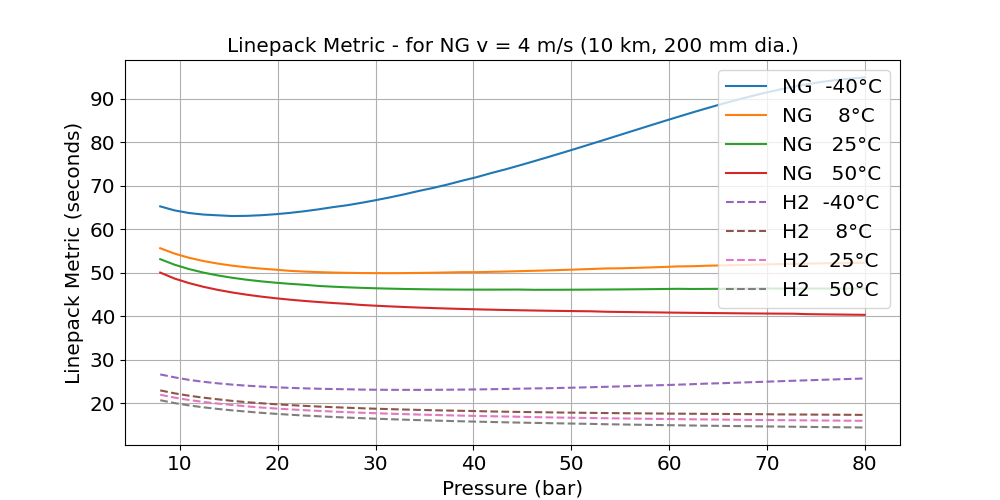
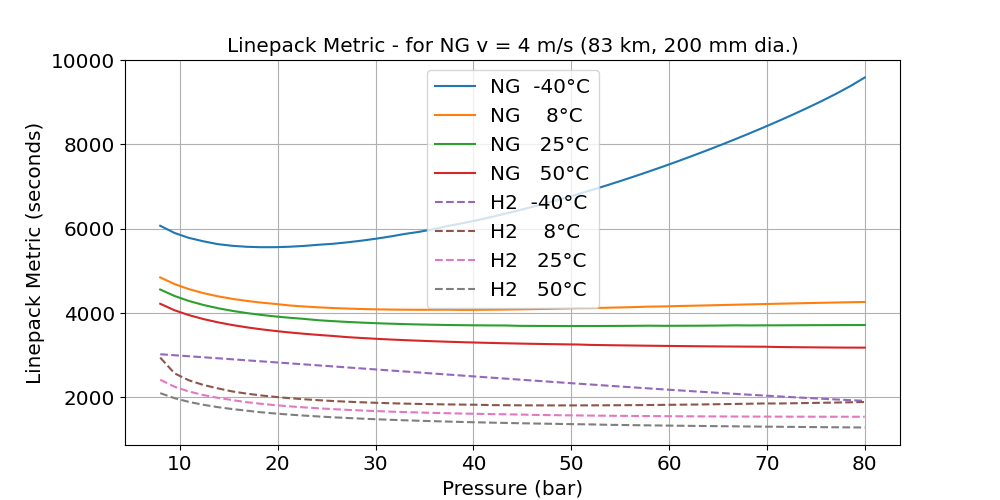
Need Mach number cuttoff for some pipes

diff --git a/moody.py b/moody.py
@@ -738,7 +738,10 @@ def LPM(g, T, P_ent, L_seg, D, Qh, rr=1e-5, f_function=afzal_mod):
     V_seg = L_seg * A # volume
     _, _, hc_g = get_Hc(g, T) # MJ/mol 
 
-    P_exit = running_dp38(L_seg, g, T, P_ent, f_function, rr, D, Qh)
+    #P_exit = running_dp38(L_seg, g, T, P_ent, f_function, rr, D, Qh)
+    P_exit = get_final_pressure(g, T, P_ent, L_seg, D, Qh)
+    if P_exit < 0:
+        print(f"## Negative exit pressure. {g} {T} {P} {L_seg}")
     v_ent = get_v_from_Q(g, T, P_ent, Qh, D)
     #print(f"++ {g:5} ({T-T273:5.1f}°C)   L={L_seg/1e3:5.1f}km {v_ent=:5.1f} {P_ent=:5.1f} {P_exit=:5.1f} {P_ent-P_exit=:7.3f} bar")
 
@@ -758,7 +761,7 @@ def LPM(g, T, P_ent, L_seg, D, Qh, rr=1e-5, f_function=afzal_mod):
 
     return lpm # in seconds
 
-def plot_lpm():
+def plot_lpm(L_seg = 83): # L_seg (km)
     """Plot LPM  for pure hydrogen and natural gases
     Standardise on 4 m/s for NG, and equivalent energy velocity for H2
     """
@@ -773,7 +776,7 @@ def plot_lpm():
     plt.figure(figsize=(10, 5))
     
     for g in ['NG', 'H2']:
-        L_seg = 10  # km
+          # km
         Lm = L_seg * 1e3 # m
         D = 0.2 # 200 mm
         v = 4 # m/s
@@ -797,6 +800,35 @@ def plot_lpm():
 
     plt.savefig("pipe_lpm.png")
     plt.close()
+    
+    # This is eqn(38) direct calculated differential curve
+    # COPY FOR DEBUGGING LPM
+    output="pipeLPM"
+    f = afzal_mod
+    
+    plt.figure(figsize=(10, 6))
+    fn = f"{f.__name__}"
+    #title = title_in + f" (ε/D = {rr0} [{fn}])"
+    filename = output + "_p_" + fn + ".png"
+    x_range = np.linspace(1, L_seg*1000-1, 50) # 500 km
+
+    
+    p_final ={}
+    for g in ['Yamal', 'H2']:
+        p_final[g] = {}
+        for T in [T230, T8C, T25C, T50C]:
+            lab =  f" ({T-T273:.1f}°C)"
+
+            p_x = {}
+            label = f"{g:7}" + lab
+            # print(label)
+            p_x[T] = [running_dp38(x, g, T, 30, f, 1e-5, D, get_Q_NG(30, T)) for x in x_range] # bar
+            plotit(g, p_x, "linear", f, label, x_range)
+            #p_final[g][T] =   p_x[T][-1] # printed at end of program
+    plt.ylabel('Pressure (bar)')
+    saveit( label,filename)
+    # END OF COPY FOR DEBUGGING LPM
+
 
     print(f"Now plot the ratio")
     # Plot LPM  RATIO hydrogen : natural gases
@@ -804,7 +836,6 @@ def plot_lpm():
         pressures = np.linspace(6, 80, 50)  # bar
         plt.figure(figsize=(10, 5))
         for g in ['NG']:
-            L_seg = 10 # km
             Lm = L_seg * 1e3 # m
             D = 0.2 # 200 mm
             #for T in [ T8C]:
@@ -822,60 +853,72 @@ def plot_lpm():
 
         plt.savefig("pipe_lpm_ratio.png")
         plt.close()
-    
+        
+def get_final_pressure(g, T, P_zero, L_pipe, D, Qh, rr=1e-5, f=afzal_mod):
+    """     Pfinal = SQRT (P0² - B f Z L/D )
+    L_pipe (m)
+    P_zero (bar)
+    """
+    def estimate(g, T, P_zero, P_mean):
+        
+        Qg = kg_from_GW(g, Qh)
+        B = funct_B(g, Qg, T, D)
+        Z = get_z(g, P_mean, T)
+        Re =  get_Re(g, T, P_mean, Qh, D)
+        ff = f(Re, rr)
+        t1 = (P_zero*1e5)**2
+        t2 = B * ff * Z * L_pipe / D
+        if t1 > t2:
+            fp = np.sqrt(t1 - t2 ) # Pa
+        else:
+            fp = 1e-9
+            print(f"## Negative  sqrt  {g:7} {T-T273:4.0f}°C {P_zero:8.3f} {P_mean:8.3f} {t1:.3e} {t2:.3e}")
+        return fp * 1e-5 # bar
+        
+    fp1 = estimate(g, T, P_zero, P_zero)
+    mean_P = (P_zero + fp1)/2
+    rms_P = np.sqrt((P_zero**2 + fp1**2)/2)
+    geo_P = np.sqrt(P_zero * fp1)
+    fp2 = estimate(g, T, P_zero, mean_P)
+    #print(g, P_zero, fp1, fp2, rms_P, mean_P, geo_P)
+    return fp2
+        
+def plotit(g, p_x, plot, ff, label, x_range):
+    # Plot the calculated curves 
+    if plot == "loglog":
+        for rr, p in p_x.items():
+            plt.loglog(x_range/1000, ff, label=label, **plot_kwargs(g))
+    if plot == "linear":
+        for rr, ff in p_x.items():
+            plt.plot(x_range/1000, ff, label=label, **plot_kwargs(g))
+    if plot == "linlog":
+        for rr, ff in p_x.items():
+            plt.semilogx(x_range/1000, ff, label=label, **plot_kwargs(g))
+
+def saveit(title,filename):
+    plt.title(title)
+    plt.xlabel('Distance (km)')
+    plt.grid(True, which='both', ls='--')
+    plt.legend()
+    plt.savefig(filename)
+    plt.close()
+    # print(f"*** {filename} ***")
+        
 def plot_pipeline(title_in, output, plot="linear", fff=afzal_mod):
     # Derived from plot_pt_diagram(), all need refactoring
     
     # Be Careful. Many variables rely on Python scoping rules between functions and
     # included functions. These rules are implicit.
     global P, T
-    def get_final_pressure(g, T, P_zero, L_pipe):
-        # Pfinal = SQRT (P0² - B f Z L/D )
-        def estimate(g, T, P_zero, P_mean):
-            
-            Qg = kg_from_GW(g, Qh)
-            B = funct_B(g, Qg, T, D)
-            Z = get_z(g, P_mean, T)
-            Re =  get_Re(g, T, P_mean, Qh, D)
-            ff = f(Re, rr0)
-            fp = np.sqrt((P_zero*1e5)**2 - B * ff * Z * L_pipe / D ) # Pa
-            return fp * 1e-5 # bar
-            
-        fp1 = estimate(g, T, P_zero, P_zero)
-        mean_P = (P_zero + fp1)/2
-        rms_P = np.sqrt((P_zero**2 + fp1**2)/2)
-        geo_P = np.sqrt(P_zero * fp1)
-        fp2 = estimate(g, T, P_zero, mean_P)
-        #print(P0, fp1, fp2, rms_P, mean_P, geo_P)
-        return fp2
-    
-    def plotit(g, p_x, plot, ff, label):
-        # Plot the calculated curves 
-        if plot == "loglog":
-            for rr, p in p_x.items():
-                plt.loglog(x_range/1000, ff, label=label, **plot_kwargs(g))
-        if plot == "linear":
-            for rr, ff in p_x.items():
-                plt.plot(x_range/1000, ff, label=label, **plot_kwargs(g))
-        if plot == "linlog":
-            for rr, ff in p_x.items():
-                plt.semilogx(x_range/1000, ff, label=label, **plot_kwargs(g))
 
-    def saveit(title,filename):
-        plt.title(title)
-        plt.xlabel('Distance (km)')
-        plt.grid(True, which='both', ls='--')
-        plt.legend()
-        plt.savefig(filename)
-        plt.close()
-        # print(f"*** {filename} ***")
+
         
     def print_finals():
         for g in ['Yamal', 'H2']:
             for t in t_range:
                 T = T273+t
                 pf_i = p_final[g][T]
-                pf = get_final_pressure(g, T, P0, L_pipe)
+                pf = get_final_pressure(g, T, P0, L_pipe, D, Qh, rr0, f)
                 error = 100*(pf_i - pf)/pf_i
                 print(f"   {g:7} ({T-T273:5.1f}°C) P_final:{pf_i:5.1f} bar eqn39 estimate:{pf:5.1f} bar {error=:5.2f} %")
         for t in t_range:
@@ -887,8 +930,8 @@ def plot_pipeline(title_in, output, plot="linear", fff=afzal_mod):
                 T = T273+t
                 for Lkm in [10, 20, 100, 200, 800 ]: # km
                     Length = Lkm*1e3 # m
-                    p_H2 = get_final_pressure('H2', T, P0, Length)
-                    p_NG = get_final_pressure('Yamal', T, P0, Length)
+                    p_H2 = get_final_pressure('H2', T, P0, Length, D, Qh, rr0, f)
+                    p_NG = get_final_pressure('Yamal', T, P0, Length, D, Qh,rr0, f)
                     ratio = (84 - p_H2)/(84 - p_NG)
                     print(f"   {Lkm:5.0f}km  ({T-T273:5.1f}°C) r:{ratio:8.4f} H2/Yamal +{100*(ratio-1):6.2f} % {p_H2:8.4f} {p_NG:8.4f}")
                
@@ -943,7 +986,7 @@ def plot_pipeline(title_in, output, plot="linear", fff=afzal_mod):
                 label = f"{g:7}" + lab
                 # print(label)
                 p_x[T] = [running_dp38(x, g, T, P0, f, rr0, D, Qh) for x in x_range] # bar
-                plotit(g, p_x, plot, f, label)
+                plotit(g, p_x, plot, f, label, x_range)
                 p_final[g][T] =   p_x[T][-1] # printed at end of program
         plt.ylabel('Pressure (bar)')
         saveit( title,filename)
@@ -963,7 +1006,7 @@ def plot_pipeline(title_in, output, plot="linear", fff=afzal_mod):
                 label = f"{g:7}" + lab
                 # print(label)
                 g_x[T] = [dp38(x, running_dp38(x, g, T, P0, f, rr0, D, Qh), g, T, f, rr0, D, Qh)*1000  for x in x_range] # bar
-                plotit(g, g_x, plot, f, label)
+                plotit(g, g_x, plot, f, label, x_range)
 
         plt.ylabel('Pressure gradient (bar/km)')
         saveit("Gradient of " + title,filename)
@@ -984,7 +1027,7 @@ def plot_pipeline(title_in, output, plot="linear", fff=afzal_mod):
                 label = f"{g:7}" + lab
                 lpm = LPM(g, T, P0, 139*1e3, D, Qh) # Qh (GW) L (m)
                 v_x[T] = [get_v_from_Q(g, T, running_dp38(x, g, T, P0, f, rr0, D, Qh), Qh, D)  for x in x_range] # bar
-                plotit(g, v_x, plot, f, label)
+                plotit(g, v_x, plot, f, label, x_range)
 
         plt.ylabel('Gas velocity (m/s)')
         saveit("Gradient of " + title,filename)
@@ -1005,7 +1048,7 @@ def plot_pipeline(title_in, output, plot="linear", fff=afzal_mod):
                 label = f"{g:7}" + lab
                 # print(label)
                 p_x[T] = [pint(x, g, P0) for x in x_range]
-                plotit(g, p_x, plot, f, label)
+                plotit(g, p_x, plot, f, label, x_range)
                
         plt.ylabel('Pressure (bar)')
         saveit(title,filename)
@@ -1026,7 +1069,7 @@ def plot_pipeline(title_in, output, plot="linear", fff=afzal_mod):
                 label = f"{g:7}" + lab
                 # print(label)
                 p_x[T] = [d_pint(x, g, P0, f, rr0, D)*1e3 for x in x_range]
-                plotit(g, p_x, plot, f, label)
+                plotit(g, p_x, plot, f, label, x_range)
 
         plt.ylabel('Pressure gradient (bar/km)')
         saveit("Gradient of " + title,filename)
@@ -1047,7 +1090,7 @@ def plot_pipeline(title_in, output, plot="linear", fff=afzal_mod):
                 label = f"{g:7}" + lab
                 # print(label)
                 p_x[T] = [int_d_pint(x, g, P0, f, rr0, D) for x in x_range]
-                plotit(g, p_x, plot, f, label)
+                plotit(g, p_x, plot, f, label, x_range)
 
         plt.ylabel('Pressure (bar)')
         saveit(title,filename)
